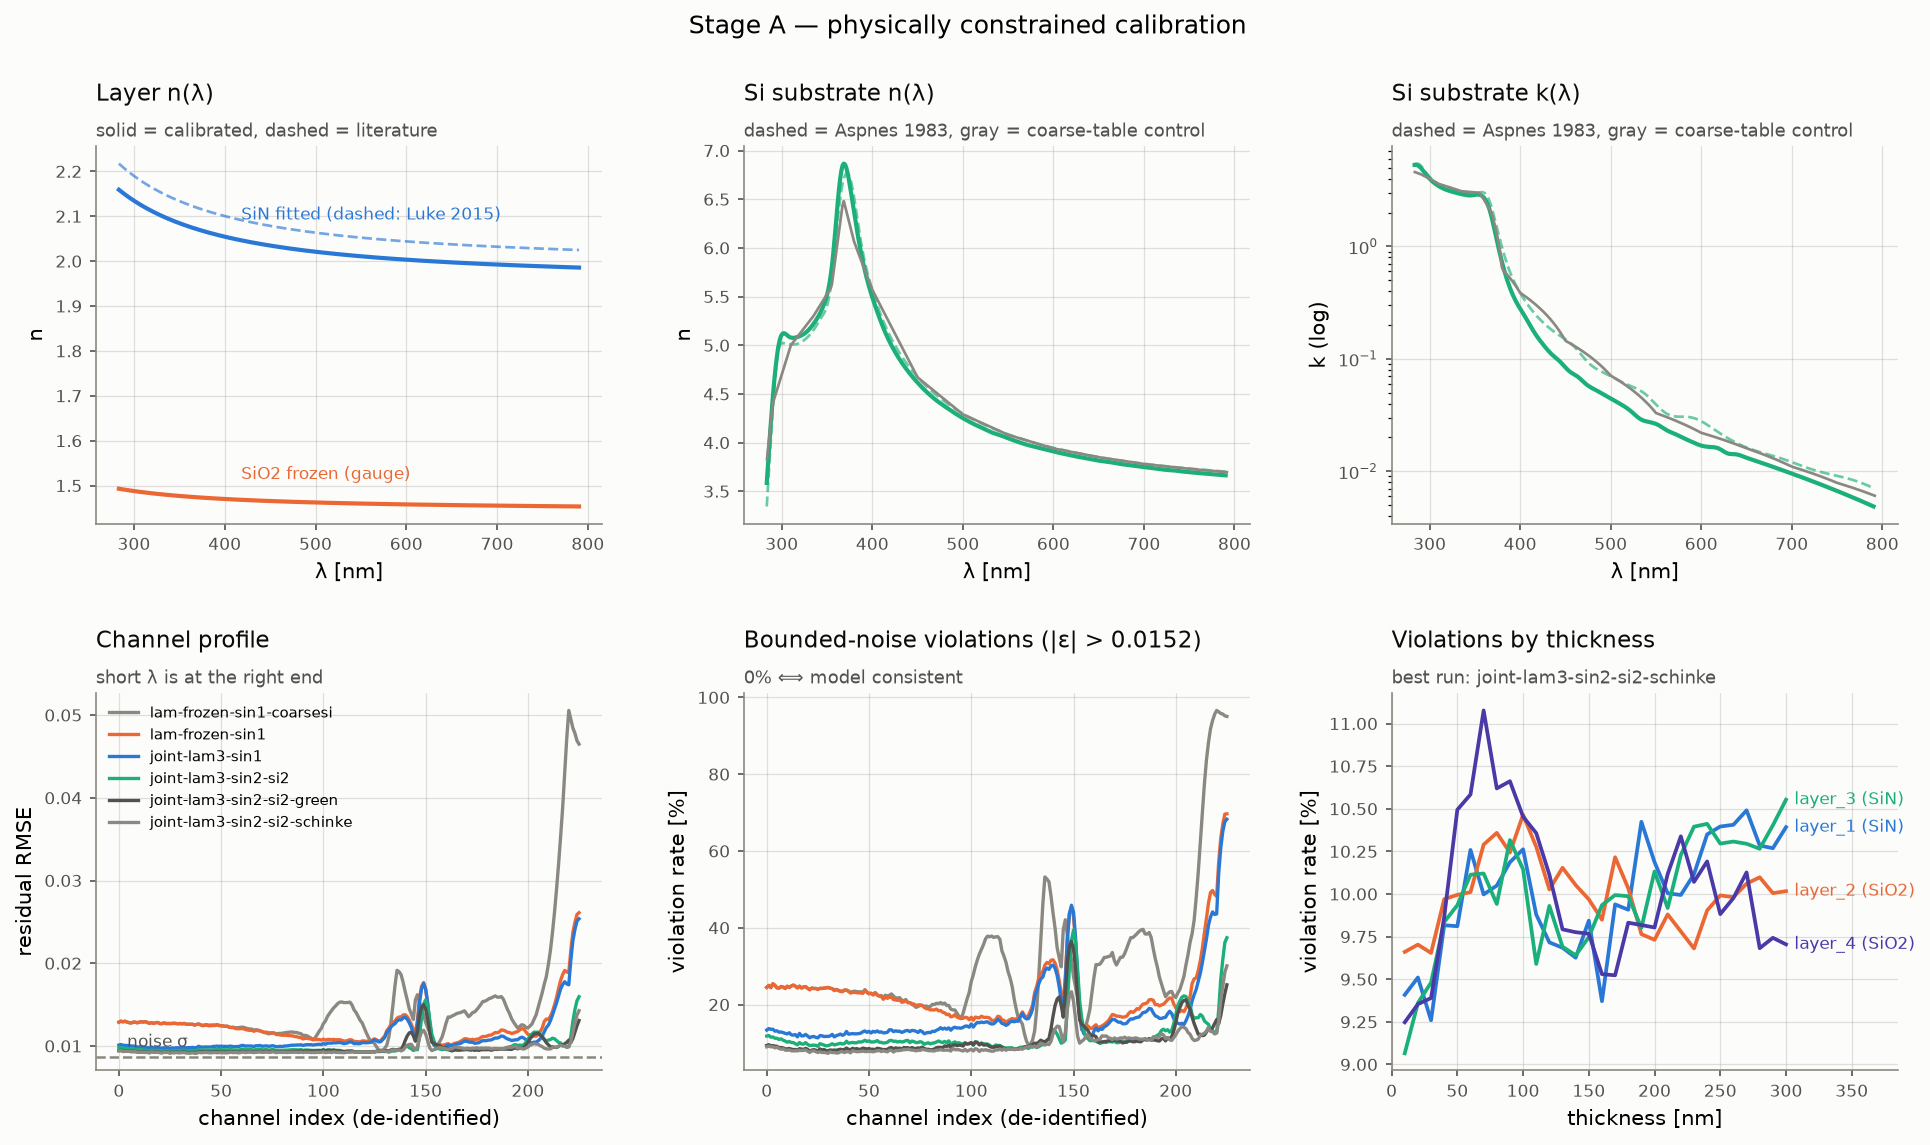
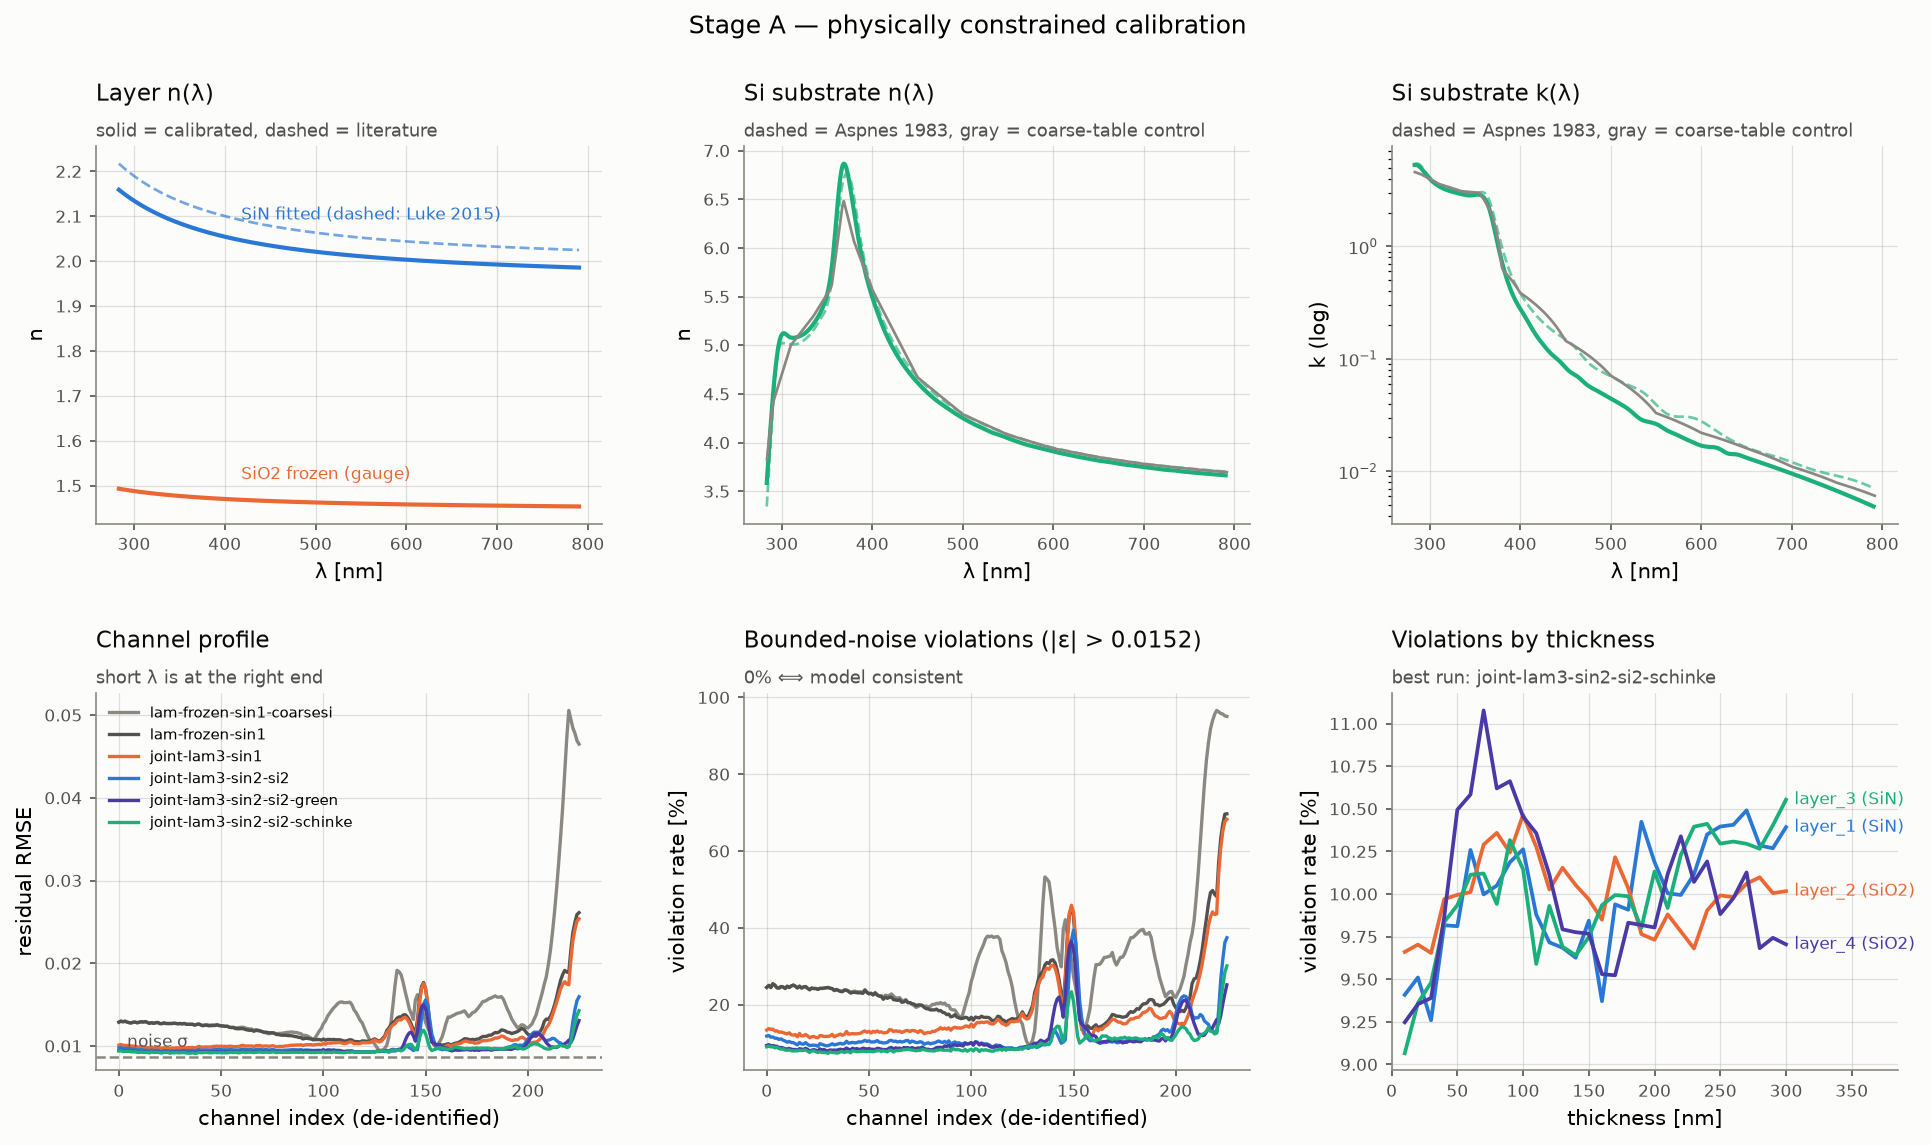
fix: 진단 그림 팔레트 6색 + 백로그 재편 (18 → 6, 실질 3)
그림 육안 확인에서 잡은 결함
- run이 6개가 되자 팔레트(5색)가 순환해 `coarsesi`(대조군)와 `schinke`(채택 디코더)가
  둘 다 회색이 됐다 — 범례가 사실과 달라진다. 6색으로 늘리고 **run 수 > 색 수면 즉시
  실패**하도록 가드를 넣었다 (조용히 순환하면 그림이 거짓말을 한다).
- 재실행 결과 reports/stage_a_gate.md는 바이트 동일 — 결정론 재확인.
- 곡선 계약 확인: Si n(λ) E1 봉우리가 문헌 추종·거친 표만 깎임, k_Si가 ×0.977만큼
  아래, SiN이 Luke 대비 −2%, SiO₂ 동결. 위반율이 ch~150(E1)·ch>200(E2)에 집중.

백로그 재편 — 감사 nit을 전부 TODO로 등재해 부풀린 것을 정정
18건 → 6건, 그중 실질 작업 3건 (Task 7 · Task 8 · 위생 묶음 30분).
목록이 프로젝트 상태를 실제보다 나쁘게 보이게 만들고 성공 기준에 걸린 Task 7·8을
묻어버렸다.

- 닫음(won't fix, 사유 기록): CNN 에폭 연장·lr 스윕·winner 특이점 수정(절대 성능
  상한은 213M 재현이 이미 잡고 Level 1 결론은 lr·에폭 무관) / 옛 Level 1 진단 스크립트
  소급 보존(유실, 재작성은 새 작업 — 규약은 08-12부터 실제 준수) / f 후보 격자 정련
  (3계수 적합이 양자화를 √(226/3)로 평균해 최종 λ에 실질 영향 없음) / freq_id 부분표집
  테스트(커버리지 예외가 이미 가드) / best-epoch 전용 split(편향 0.01~0.15 nm, 도입 시
  전 실험 재실행 필요)
- 우선순위 낮춤: 게이트 (b) 후속(PSEMI·Tauc-Lorentz) — "우선순위 높음"이 "지금 하면
  순손실"이라는 자체 판단과 모순이었다. 근거 보강: 세 문헌표 불일치가 노이즈 예산의
  69%를 쓰고 Adachi MDF 시도가 0.01442에서 정류 → 매끈한 해석적 모형으로 풀릴 가능성 낮음.
- Task 7 흡수: 평가 프로토콜 3종(β ablation의 측정 축) · 채널 가중 · layer_4 구간 분석
- 위생 묶음으로 통합: --snap test 경고(유일하게 실제 손해 방지) · verify_data 검정 ·
  게이트 (f) Si 표 계통 · test_tmm 복소 ns 케이스 · train_gpu 529↔530 · 메모리 명시

문서
- reports/stage_a.md 두께축 위반율을 채택 모델 기준으로 갱신 (9.07~11.08%, 평균 9.99%,
  봉우리 layer_4 @70 nm). 표를 바꿔도 봉우리 위치가 같다는 것이 구조의 물리적 기원 근거.

Changed region(s): [[0.4041, 0.7642, 0.6528, 0.917], [0.0622, 0.8253, 0.3109, 0.9476]]

diff --git a/scripts/diagnose_calibration.py b/scripts/diagnose_calibration.py
@@ -533,7 +533,9 @@ def main() -> int:
 
     data = load_split(fit_rows=8000)
     x_diag, d_diag = data["x_diag"], data["d_diag"].astype(np.float64)
-    palette = [INK_MUTED, C_SIO2, C_SIN, C_SI, INK_SECONDARY]
+    # 색 수 ≥ run 수여야 한다 — 부족하면 순환해서 대조군과 채택 run이 같은 색이 된다
+    # (실제로 6 run이 되자 coarsesi와 schinke가 둘 다 회색이 됐다).
+    palette = [INK_MUTED, INK_SECONDARY, C_SIO2, C_SIN, LAYER_COLORS[3], C_SI]
 
     # 없는 run은 건너뛴다. 조용히 빠지면 "전부 비교했다"로 읽히므로 명시적으로 알린다.
     requested = list(args.runs)
@@ -542,6 +544,11 @@ def main() -> int:
         print(f"[skip] {missing} — model.pt 없음 (비교에서 제외)")
     if not runs:
         raise SystemExit("진단할 run이 없다")
+    if len(runs) > len(palette):
+        raise SystemExit(
+            f"run {len(runs)}개 > 팔레트 {len(palette)}색 — 색이 순환해 범례가 모호해진다. "
+            "팔레트를 늘리거나 --runs 로 비교 대상을 줄일 것."
+        )
 
     results: list[dict[str, Any]] = []
     for i, run in enumerate(runs):

diff --git a/docs/week_1.md b/docs/week_1.md
@@ -536,48 +536,56 @@ metrics.json이 **전 필드 비트 재현**(wall_sec 제외)됐고, `diagnose_c
 - [x] ~~에폭 연장 실험 (winner 프로토콜)~~ — strong baseline이 원본 100ep로 흡수.
   **단 CNN 쪽 질문은 별개라 아래로 분리** (08-11 리뷰에서 정정 — 213M MLP의 100ep는
   0.66M CNN의 30ep 부족 여부에 답하지 못한다)
-- [ ] CNN 에폭 연장 — flatten 계열 best가 29~30/30으로 수렴 직전 (level1_cnn.md §5).
-  30ep 초과 시 절대 성능 개선 여지 미판정
-- [ ] CNN lr 공정성 확인 — lr 1e-3은 MLP 기준 선택. subset lr 스윕(3e-4/1e-3/3e-3)
-  미실행 (08-10 열린 확인 사항의 승격 — Task 7 전 판단)
-- [ ] winner 특이점 수정 변형(정상 train 모드, shuffle 매 에폭) — 재현 성공으로 후보
-  활성화. 우선순위 낮음 (strong_baseline.md 분석 4)
-- [ ] 리포트 진단 수치의 재현 스크립트를 scripts/에 보존 — 기존 진단(상관·구간별
-  MAE·bound 분해)은 scratchpad 산출로 유실 (08-11 리뷰 지적, 이후 실험부터 적용).
-  08-12 Stage A부터 적용됨 (`scripts/measure_noise.py`, `scripts/diagnose_calibration.py`)
-- [ ] **Stage A 게이트 (b) 미통과 후속 — 우선순위 높음.** 남은 오차가 c-Si 임계점
-  E1·E2에 집중. 후보: ① 임계점 파라메트릭 모형(Herzinger 1998 PSEMI), ② λ<310 nm
-  31채널의 Luke 유효범위 외삽 처리, ③ SiN UV 흡수(Tauc-Lorentz), ④ 계면층
+- [~] ~~CNN 에폭 연장~~ / ~~CNN lr 공정성 스윕~~ / ~~winner 특이점 수정 변형~~ —
+  **닫음 (won't fix, 08-13).** 셋 다 "절대 성능을 더 짜낸다"는 축인데, 이 저장소의
+  절대 성능 상한선은 이미 213M 재현(0.3955 nm)이 잡고 있고 Level 1의 결론(구조 bias의
+  기여)은 lr·에폭 조정 없이도 성립한다. 성공 기준 셋 중 어느 것도 이 항목에 걸려 있지 않다.
+- [~] ~~옛 리포트 진단 수치의 재현 스크립트 보존~~ — **닫음 (소급 불가, 08-13).**
+  Level 1 진단(상관·구간별 MAE·bound 분해)의 산출 스크립트는 scratchpad에서 유실됐고
+  체크포인트만으로 재작성하는 것은 새 작업이다. 규약은 08-12부터 실제로 지켜지고 있다
+  (`measure_noise.py`, `diagnose_calibration.py`가 커밋돼 있고 산출물이 바이트 재현된다).
+- [ ] **Stage A 게이트 (b) 미통과 후속 — 보류 (우선순위 낮춤, 08-13).** 남은 오차가
+  c-Si 임계점 E1·E2에 집중. 후보: ① 임계점 파라메트릭 모형(Herzinger 1998 PSEMI),
+  ② SiN UV 흡수(Tauc-Lorentz), ③ 계면층. **성공 기준 #2(물리 손실 ablation)가 0%인
+  상태에서 forward 모델을 더 파는 것은 순손실**이라 Task 7·8 뒤로 미룬다. 근거 보강:
+  세 문헌표의 상호 불일치가 이미 노이즈 예산의 69%를 쓰고(08-13 측정) 아카이브의
+  Adachi MDF 13계수 시도가 0.01442에서 정류했으므로, 잔차가 "더 나은 매끈한 모형"으로
+  풀릴 가능성은 낮다. (b) 미통과와 원인 국소화는 이미 정직하게 기록돼 있고 그 자체가
+  좋은 서사다.
 - [x] **λ 절대 스케일의 독립 검증** — `gauge-sio2-scale` run으로 수행, **통과**
   (s = 1.00689, |s−1| = 0.689% < 1%). 위상 정보만으로는 불가능한 절대 파장 검증이
   Si 임계점 앵커로 성립했다. 2026-08-13 완료. 잔여: 물성 절대값이 게이지에 0.7% 수준으로
   조건부라는 점을 물성 해석 문장에 한정어로 유지
-- [ ] **README §3.5 평가 프로토콜 미구현 3종 (08-13 리뷰에서 부채로 등재)** — 구현률
-  1/4. ① 격자 스냅 분리 보고만 구현됨(`evaluate.py`), ② 격자 밖 합성셋 미구현,
-  ③ held-out 두께 값 split 미구현, ④ 노이즈 강건성 주입 미구현. ③·④는 Task 7에서
-  물리 손실의 기여를 재는 축이므로 함께 만든다. README §3.5에 구현 현황 주석 추가함
+- [ ] **README §3.5 평가 프로토콜 미구현 3종 → Task 7에 흡수 (08-13).** 구현률 1/4
+  (격자 스냅 분리 보고만 있음). 남은 셋 — 격자 밖 합성셋 · held-out 두께 값 split ·
+  노이즈 강건성 주입 — 은 **물리 손실이 이득을 낼 가능성이 가장 큰 축**이라 별도 항목이
+  아니라 Task 7의 측정 도구로 함께 만든다. random split만 보면 β ablation이 "차이 없음"으로
+  끝날 위험이 크다 (전수 격자라 보간이 이미 쉽다). README §3.5에 구현 현황 주석 추가함
 - [x] **Si 표 재선정** — Schinke 2015 채택, 디코더 교체. run 2개 커밋, 표 선택 근거를
   측정으로 재수립. 2026-08-13 완료
-- [ ] **test 격자 밖 사실의 코드 반영 (08-13 리뷰)** — ① `scripts/verify_data.py`에
-  "test 두께는 격자 밖" 검정 추가(유계 노이즈 반증), ② `src/evaluate.py --snap` 도움말이
-  test에 대해 순손실임을 경고, ③ holdout(격자 위) vs test(격자 밖) 대비를 §3.5-2의
-  격자 밖 일반화 측정으로 정식 채택
-- [ ] **게이트 (f) 불확실성 표에 Si 표 계통 추가 (08-13 리뷰)** — 표 간 R 차이가
-  최대 0.0105(=1.22σ, 유계 상한의 69%)로 지배적인데 SiN 0.3~0.6%만 실려 있다
-- [ ] **테스트 커버리지 보강 (08-13 변이 테스트)** — 복소 부호 관례(1j→−1j 8.97σ),
-  스플라인 삼중대각 조립(19변이 생존, 최대 6.01σ), L≥3 층 순서, T 경로. 최소 비용안:
-  test 2(에너지 보존)에 복소 ns + n0=1.31 케이스 한 줄 추가 → T·n0 변이 4종 동시 사살
-- [ ] **freq_id 무작위 부분표집 열화 테스트 (08-13 리뷰)** — 현재 테스트는 15⁴ 전수
-  격자 커버리지만 고정. 5만 행에서 ~200/226 채널이 붕괴하는 것을 고정하는 테스트가 없다
-- [ ] **`src/train_gpu.py:529↔530` 순서 교정 (08-13 리뷰)** — 미러 사본 train.log의
-  마지막 줄 누락. 커밋된 4개 run 로그가 이미 잘려 있다
-- [ ] **재현 커맨드의 메모리 요구 명시 (08-13 리뷰)** — 실측 3.9~5.3 GB RSS
-- [ ] **주파수 식별의 f 후보 격자 정련 (08-13 리뷰)** — 채널별 λ 산포 0.445 nm의 대부분이
-  `n_candidates=1200` 양자화(예측 rms 0.408 nm)다. 최소점 삼분탐색 정련으로 탐색 비용
-  증가 없이 ~21% 감소. 층2·4 일치도 지표도 그때 비로소 의미를 갖는다
+- [ ] **위생 묶음 — 한 자리에서 30분 (08-13 리뷰 산물).** 개별 항목으로 두면 백로그만
+  부풀고 우선순위를 왜곡하므로 하나로 묶는다. 전부 한 줄~한 케이스짜리다.
+  1. `src/evaluate.py --snap` 도움말에 **test는 격자 밖이라 스냅이 순손실**임을 경고
+     (유일하게 실제 손해를 막는 항목 — 제출에서 약 +1.2 nm)
+  2. `scripts/verify_data.py`에 "test 두께는 격자 밖" 검정 추가 (유계 노이즈 반증)
+  3. 게이트 (f) 불확실성 표에 **Si 표 간 계통** 추가 (최대 0.0105 = 1.22σ, 유계 상한의
+     69% — 현재 SiN 0.3~0.6%만 실려 지배적 항이 빠져 있다)
+  4. `tests/test_tmm.py` test 2(에너지 보존)에 **복소 ns + n0 = 1.31** 케이스 한 줄 —
+     T·n0 관련 생존 변이 4종을 동시에 사살한다 (복소 부호 관례 1j→−1j 8.97σ는 별도 케이스 필요)
+  5. `src/train_gpu.py:529↔530` 순서 교정 (미러 train.log 마지막 줄 누락)
+  6. README §5·stage_a.md 재현 절에 메모리 요구 명시 (실측 3.9~5.3 GB RSS)
+- [~] ~~주파수 식별 f 후보 격자 정련~~ / ~~freq_id 부분표집 열화 테스트~~ —
+  **닫음 (저가치, 08-13).** 정련: 3계수 적합이 양자화 오차를 √(226/3)로 평균해 곡선
+  표준오차가 ~0.05 nm이므로 **최종 λ에 실질 영향이 없다** — 남는 것은 자기검증 지표의
+  표기 문제이고 그건 리포트 주석으로 이미 처리했다. 부분표집 테스트: 산출 경로가 항상
+  train 전체를 쓰고 커버리지 미충족은 `test_calibrate.py:246`이 예외로 고정하므로
+  실질 가드가 이미 있다.
 - [x] **게이트 (d) 역해 상자·표본·오차 분포 문서화** — 상자 [1,400]은 라벨 사전지식을
   배제하는 의도적 선택임을 명시하고, 중앙값·p99·최대·물리범위 밖 비율을 게이트 표에 추가.
   2026-08-13 완료
-- [ ] holdout과 분리된 best-epoch 선택용 split 도입 여부 (현재는 문서 명시로 처리)
-- [ ] 물리 손실 채널 가중 ablation (대역 오른쪽 정보량 3배 — 기본은 균등 가중)
-- [ ] layer_4 40~60 nm 민감도 저하 구간의 오차 확인 (두께 구간별 오차 분석 시)
+- [~] ~~holdout과 분리된 best-epoch 선택용 split~~ — **닫음 (문서 명시로 처리, 08-13).**
+  편향 규모가 0.01~0.15 nm이고 모든 실험이 같은 프로토콜을 쓰므로 비교는 유효하다.
+  split을 하나 더 두면 전 실험을 다시 돌려야 하는데 얻는 것이 그 편향뿐이다.
+- [ ] **Task 7 하위 항목** (별도 관리 안 함): 물리 손실 채널 가중 ablation
+  (대역 오른쪽 정보량 3배 — 기본은 균등 가중) · layer_4 40~60 nm 민감도 저하 구간의
+  오차 확인 · holdout(격자 위) vs test(격자 밖) 대비를 격자 밖 일반화 측정으로 채택

diff --git a/reports/stage_a.md b/reports/stage_a.md
@@ -344,10 +344,12 @@ Aspnes 판본은 4.74%). **모델은 명백히 불완전하다.**
 
 임계점 ±0.12 eV의 38채널 위반율 **18.7%** vs 나머지 188채널 **10.7%** (1.75배).
 
-**두께축으로는 구조가 거의 없다** — 전 층 **11.2~13.3%** (평균 12.0%)로 채널축의
-8.4~39.4% 대비 훨씬 평평하다. 유일한 봉우리는 layer_4의 70 nm에서 13.3%인데, EDA가
+**두께축으로는 구조가 거의 없다** — 채택 모델(Schinke)에서 전 층 **9.07~11.08%**
+(평균 9.99%)로 채널축의 8.4~39.4% 대비 훨씬 평평하다 (Aspnes 판본은 11.2~13.3%,
+평균 12.0%로 같은 구조). 유일한 봉우리는 **layer_4의 70 nm에서 11.08%**인데, EDA가
 기록한 그 구간의 민감도 저하(40~60 nm에서 RMS ΔR 0.0760까지 하락, 최저 50 nm)와
-정합한다. 즉 **남은 오차는 두께가 아니라 파장에 걸린 문제**다.
+정합한다. 표를 바꿔도 봉우리 위치가 그대로라는 것이 이 구조가 물리에서 온다는 근거다.
+즉 **남은 오차는 두께가 아니라 파장에 걸린 문제**다.
 
 원인 후보 (우선순위순):
 
